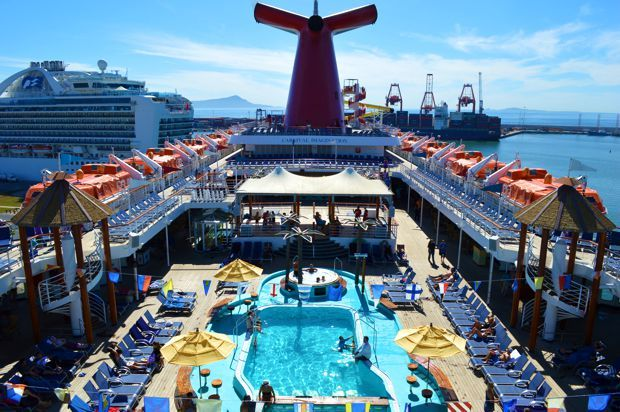
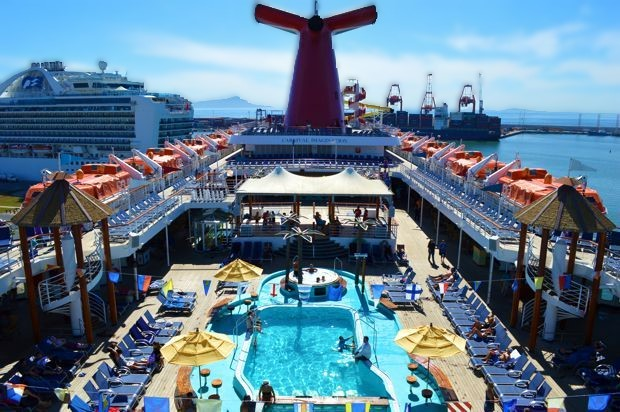
bugged

diff --git a/client/src/index.css b/client/src/index.css
@@ -2,12 +2,12 @@
 
 
 :root {
-  --primary: #08a2da;
-  --secondary: #8acffa;
-  --tertiary: #3a0d6f;
-  --light: #e8f8f8;
-  --dark: #00080b;
-  --error: rgb(56, 38, 33);
+  --primary: blue;
+  --secondary: aqua;
+  --tertiary: purple  ;
+  --light: lightblue;
+  --dark: black;
+  --error: red (56, 38, 33);
   --spacing-one: calc(1rem * 0.5);
   --spacing-two: calc(1rem);
 }
@@ -19,7 +19,7 @@
 html,
 body {
   min-height: 100%;
-  background-color: white;
+  background-color: lightskyblue !important;
   font-family: 'Poppins', sans-serif;
 }
 
@@ -103,10 +103,14 @@ header img {
   background-color: var(--light);
 }
 
-/* Slider */
+
 
 img, svg {
-  padding-top: 10px;
+  color: black;
+  resize: auto;
+  min-width: none;
+  max-width: 50%;
+  
 
 }
 
@@ -147,14 +151,16 @@ span[role="img"] {
 
 
 
+
+
 form {
   width: 100%;
-  background-color: white;
+  background-color: aquamarine !important;
 }
 
 input {
   font-size: 1rem;
-  /* padding: 0.25rem; */
+ padding: 0.25rem; 
   padding-left: 20rem;
   border: 2px solid var(--dark);
   outline: none;
@@ -286,12 +292,6 @@ input:focus {
 
 /* Media Screen */
 
-
-@media screen and (max-width: 768px) {
-  .card {
-    width: 100%;
-  }
-}
 /* Media Screen - Contact */
 @media (max-width: 768px) {
   .submit-message {
@@ -312,3 +312,4 @@ input:focus {
      font-size: medium;
   }
 }
+

diff --git a/client/src/components/Slider/index.js b/client/src/components/Slider/index.js
@@ -13,19 +13,19 @@ import {
 
 const items = [
   {
-    src: './public/images/cruise24.jpg',
+    src: 'https://freeimage.host/i/JjGzlMx',
     altText: '',
     caption: 'Enjoy great meals while joining us with our awesome Carnival Celebration!',
     key: 1,
   },
   {
-    src: './public/images/bajacruise24.jpg',
+    src: 'https://freeimage.host/i/JjGzYZb',
     altText: '',
     caption: 'Enjoy the onboard Swimming pool with movie theater at night while exploring some of the great places in Baja Mexico',
     key: 2,
   },
   {
-    src: './public/images/europecruise24.jpg',
+    src: 'https://freeimage.host/i/JjGzcnj',
     altText: '',
     caption: 'Create unforgettable memories here with the Europe Cruise',
     key: 3,
